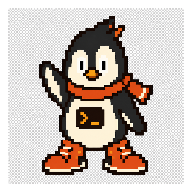
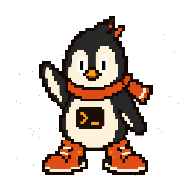
fix: unblock the path map's common nodes and hide unwritten chapters
- Docker, CI/CD and Kubernetes are monsters for chapters nobody has
  written yet, so the "미리 발견된 기술 개체" shelf comes off the map and
  their textures stop preloading. The registry still records them;
  COMMON_TECHNOLOGY_SPECIMENS is what the map draws from now.
- Give the common nodes room: the sprite box and the text column are
  derived from one gap constant instead of two independently tuned
  offsets that had the label sitting on the specimen.
- Connector endpoints now come from the node geometry rather than
  hardcoded pixel values, so widening a card can't strand a line.
- linux-specimen.png shipped with its dithered light backdrop painted
  in (84% opaque vs 20-38% for every other specimen), which drew a pale
  square over the node's medallion. Flood-filled from the border only,
  so the penguin's enclosed white belly is untouched; it now measures
  32% opaque, in line with the rest.

Changed region(s): [[0.0312, 0.0312, 0.9688, 0.9688]]

diff --git a/web/lib/phaser/scenes/PathMapScene.ts b/web/lib/phaser/scenes/PathMapScene.ts
@@ -1,6 +1,6 @@
 import Phaser from "phaser";
 import {
-  FUTURE_TECHNOLOGY_SPECIMENS,
+  COMMON_TECHNOLOGY_SPECIMENS,
   TECHNOLOGY_SPECIMENS,
 } from "../../domain/technologySpecimens";
 import { PALETTE, PALETTE_HEX } from "../palette";
@@ -45,8 +45,15 @@ const CAREER_NODES: PathNode[] = [
 ];
 
 const ALL_NODES = [...COMMON_NODES, PROMOTION_NODE, ...CAREER_NODES];
-const COMMON_WIDTH = 150;
+const COMMON_WIDTH = 164;
 const COMMON_HEIGHT = 86;
+/**
+ * Sprite box and text column inside a node. A specimen is not guaranteed to
+ * be transparent out to its own edges, so the text column has to clear the
+ * full sprite box — not just the medallion circle drawn behind it.
+ */
+const SPRITE_BOX = { common: 46, career: 44 } as const;
+const SPRITE_GAP = 8;
 const PROMOTION_SIZE = 92;
 const CAREER_WIDTH = 244;
 const CAREER_HEIGHT = 54;
@@ -59,7 +66,7 @@ export class PathMapScene extends Phaser.Scene {
   }
 
   preload() {
-    Object.values(TECHNOLOGY_SPECIMENS).forEach(({ textureKey, assetPath }) => {
+    COMMON_TECHNOLOGY_SPECIMENS.forEach(({ textureKey, assetPath }) => {
       this.load.image(textureKey, assetPath);
     });
     this.load.image("career-frontend", "/assets/careers/frontend-developer.png");
@@ -77,7 +84,6 @@ export class PathMapScene extends Phaser.Scene {
     this.drawSectionLabels();
     this.drawConnections();
     ALL_NODES.forEach((node) => this.drawNode(node));
-    this.drawDiscoveredSpecimens();
 
     createButton(this, width / 2, height - 27, 140, 32, "돌아가기", () =>
       this.scene.start("world-map")
@@ -164,11 +170,27 @@ export class PathMapScene extends Phaser.Scene {
       lines.strokePath();
     };
 
-    drawPath([[190, 272], [225, 272]], true);
-    drawPath([[375, 272], [444, 272]], true);
+    // Derived from the node geometry rather than hardcoded, so resizing a
+    // card can't leave a connector stubbed short or buried under a panel.
+    const [git, terminal] = COMMON_NODES;
+    const commonHalf = COMMON_WIDTH / 2;
+    drawPath([[git.x + commonHalf, git.y], [terminal.x - commonHalf, terminal.y]], true);
+    drawPath(
+      [
+        [terminal.x + commonHalf, terminal.y],
+        [PROMOTION_NODE.x - PROMOTION_SIZE / 2, PROMOTION_NODE.y],
+      ],
+      true
+    );
 
     const branchX = 620;
-    drawPath([[536, 272], [branchX, 272]], false);
+    drawPath(
+      [
+        [PROMOTION_NODE.x + PROMOTION_SIZE / 2, PROMOTION_NODE.y],
+        [branchX, PROMOTION_NODE.y],
+      ],
+      false
+    );
     lines.lineStyle(6, PALETTE.ink, 1);
     lines.lineBetween(branchX, CAREER_NODES[0].y, branchX, CAREER_NODES.at(-1)!.y);
     lines.lineStyle(2, PALETTE.mutedBrown, 0.62);
@@ -202,16 +224,12 @@ export class PathMapScene extends Phaser.Scene {
     panel.fillStyle(unlocked ? PALETTE.maroon : PALETTE.nightBrown, 1);
     panel.fillRect(-width / 2, -height / 2, 6, height);
 
+    const spriteBox = node.kind === "common" ? SPRITE_BOX.common : SPRITE_BOX.career;
+    const spriteCenterX = -width / 2 + 12 + spriteBox / 2;
     const icon = node.spriteKey
-      ? this.drawNodeSprite(
-          node.spriteKey,
-          -width / 2 + 29,
-          0,
-          node.kind === "common" ? 56 : 48,
-          unlocked
-        )
-      : this.drawIcon(node.icon!, -width / 2 + 29, 0, unlocked);
-    const textLeft = -width / 2 + 54;
+      ? this.drawNodeSprite(node.spriteKey, spriteCenterX, 0, spriteBox, unlocked)
+      : this.drawIcon(node.icon!, spriteCenterX, 0, unlocked);
+    const textLeft = spriteCenterX + spriteBox / 2 + SPRITE_GAP;
     const eyebrow = this.add
       .text(textLeft, -13, node.eyebrow, {
         ...pixelText("caption"),
@@ -299,54 +317,20 @@ export class PathMapScene extends Phaser.Scene {
     x: number,
     y: number,
     size: number,
-    active = false
+    active: boolean
   ) {
+    // Specimen art has to be transparent to its edges for this to read as a
+    // portrait in a ring rather than a square on a disc — the sprite is drawn
+    // at the full box size, wider than the medallion behind it.
     const medallion = this.add.circle(x, y, size / 2 - 2, PALETTE.nightBrown, 1);
     medallion.setStrokeStyle(2, PALETTE.amber, 0.72);
-    const portrait = this.add.image(x, y + 1, textureKey).setDisplaySize(size, size);
-    portrait.setAlpha(active ? 1 : 0.78);
+
+    const portrait = this.add
+      .image(x, y + 1, textureKey)
+      .setDisplaySize(size, size)
+      .setAlpha(active ? 1 : 0.78);
+
     return this.add.container(0, 0, [medallion, portrait]);
-  }
-
-  private drawDiscoveredSpecimens() {
-    const centerX = 220;
-    const centerY = 421;
-    const panel = this.add.graphics();
-    panel.fillStyle(PALETTE.ink, 0.72);
-    panel.fillRect(centerX - 174, centerY - 50, 348, 100);
-    panel.lineStyle(1, PALETTE.mutedBrown, 0.72);
-    panel.strokeRect(centerX - 174, centerY - 50, 348, 100);
-
-    this.add
-      .text(centerX, centerY - 38, "미리 발견된 기술 개체", {
-        ...pixelText("caption"),
-        color: PALETTE_HEX.sand,
-        letterSpacing: 1,
-      })
-      .setOrigin(0.5);
-
-    FUTURE_TECHNOLOGY_SPECIMENS.forEach((specimen, index) => {
-      const x = centerX - 108 + index * 108;
-      const card = this.add.container(x, centerY + 5);
-      const medallion = this.add.circle(0, -2, 27, PALETTE.nightBrown, 1);
-      medallion.setStrokeStyle(2, PALETTE.amber, 0.55);
-      const portrait = this.add
-        .image(0, -1, specimen.textureKey)
-        .setDisplaySize(54, 54)
-        .setAlpha(0.86);
-      const label = this.add
-        .text(0, 31, specimen.name, {
-          ...pixelText("caption"),
-          color: PALETTE_HEX.cream,
-        })
-        .setOrigin(0.5);
-
-      card.add([medallion, portrait, label]);
-      card.setSize(86, 72).setInteractive({ cursor: "pointer" });
-      card.on("pointerover", () => card.setScale(1.07));
-      card.on("pointerout", () => card.setScale(1));
-      card.on("pointerup", () => this.showToast(`${specimen.name} 개체의 챕터는 준비 중이에요.`));
-    });
   }
 
   private onNodeSelected(node: PathNode) {

diff --git a/web/lib/domain/technologySpecimens.ts b/web/lib/domain/technologySpecimens.ts
@@ -44,6 +44,11 @@ export const TECHNOLOGY_SPECIMENS = {
   },
 } satisfies Record<string, TechnologySpecimen>;
 
-export const FUTURE_TECHNOLOGY_SPECIMENS = Object.values(TECHNOLOGY_SPECIMENS).filter(
-  (specimen) => specimen.role === "future"
+/**
+ * Only the specimens whose chapters exist appear on the path map. The
+ * `future` ones stay registered here — the art is drawn and the names are
+ * settled — but nothing renders them until their chapters are written.
+ */
+export const COMMON_TECHNOLOGY_SPECIMENS = Object.values(TECHNOLOGY_SPECIMENS).filter(
+  (specimen) => specimen.role === "common"
 );
